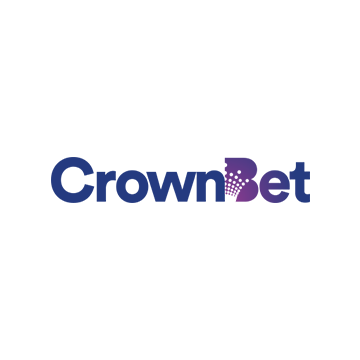
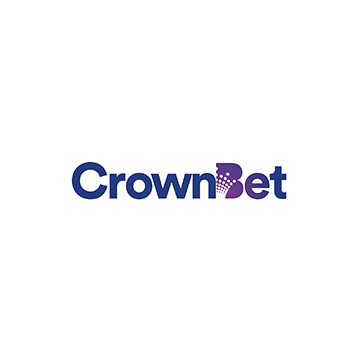
Added new users - #391 #368 #416
Added new users popxo, crownbet, tapinfluence.

Changed region(s): [[0.1222, 0.4278, 0.8556, 0.5806]]

diff --git a/pages/customers/trusted-by/index.html b/pages/customers/trusted-by/index.html
@@ -59,6 +59,7 @@ class: trusted, header-white
             <a href="http://www.conversionlogic.com" class="col pad-5" target="_blank"><img class="adapt img-rounded" src="{{ BASE_PATH }}/assets/img/common/trusted/Snowplow_Website-Images_Users_ConversionLogic.png" width="390" height="150"></a>
             <a href="https://www.bankfacil.com.br" class="col pad-5" target="_blank"><img class="adapt img-rounded" src="{{ BASE_PATH }}/assets/img/common/trusted/Snowplow_Website-Images_Users_Creditas.png" width="390" height="150"></a>
             <a href="https://www.crew.co" class="col pad-5" target="_blank"><img class="adapt img-rounded" src="{{ BASE_PATH }}/assets/img/common/trusted/Snowplow_Website-Images_Users_Crew.png" width="390" height="150"></a>
+            <a href="https://crownbet.com.au" class="col pad-5" target="_blank"><img class="adapt img-rounded" src="{{ BASE_PATH }}/assets/img/common/trusted/Snowplow_Website-Images_Users_Crownbet.png" width="390" height="150"></a>
             <a href="http://theculturetrip.com/" class="col pad-5" target="_blank"><img class="adapt img-rounded" src="{{ BASE_PATH }}/assets/img/common/trusted/Snowplow_Website-Images_Users_Culture.png" width="390" height="150"></a>
             <a href="http://www.custommade.com" class="col pad-5" target="_blank"><img class="adapt img-rounded" src="{{ BASE_PATH }}/assets/img/common/trusted/Snowplow_Website-Images_Users_CustomMade.png" width="390" height="150"></a>
             <a href="http://www.cvent.com/" class="col pad-5" target="_blank"><img class="adapt img-rounded" src="{{ BASE_PATH }}/assets/img/common/trusted/Snowplow_Website-Images_Users_Cvent.png" width="390" height="150"></a>
@@ -133,6 +134,7 @@ class: trusted, header-white
             <a href="https://perengo.com/" class="col pad-5" target="_blank"><img class="adapt img-rounded" src="{{ BASE_PATH }}/assets/img/common/trusted/Snowplow_Website-Images_Users_Perenco.png" width="390" height="150"></a>
             <a href="https://www.picnic.nl" class="col pad-5" target="_blank"><img class="adapt img-rounded" src="{{ BASE_PATH }}/assets/img/common/trusted/Snowplow_Website-Images_Users_Picnic.png" width="390" height="150"></a>
             <a href="http://www.popsugar.com" class="col pad-5" target="_blank"><img class="adapt img-rounded" src="{{ BASE_PATH }}/assets/img/common/trusted/Snowplow_Website-Images_Users_Popsugar.png" width="390" height="150"></a>
+            <a href="http://www.popxo.com" class="col pad-5" target="_blank"><img class="adapt img-rounded" src="{{ BASE_PATH }}/assets/img/common/trusted/Snowplow_Website-Images_Users_Popxo.png" width="390" height="150"></a>
             <a href="http://www.qwaya.com" class="col pad-5" target="_blank"><img class="adapt img-rounded" src="{{ BASE_PATH }}/assets/img/common/trusted/Snowplow_Website-Images_Users_Qwaya.png" width="390" height="150"></a>
             <a href="https://www.raisin.com/" class="col pad-5" target="_blank"><img class="adapt img-rounded" src="{{ BASE_PATH }}/assets/img/common/trusted/Snowplow_Website-Images_Users_Raisin.png" width="390" height="150"></a>
             <a href="https://rootsrated.com/" class="col pad-5" target="_blank"><img class="adapt img-rounded" src="{{ BASE_PATH }}/assets/img/common/trusted/Snowplow_Website-Images_Users_RootsRated.png" width="390" height="150"></a>
@@ -158,6 +160,10 @@ class: trusted, header-white
             <a href="http://www.studentbeans.com" class="col pad-5" target="_blank"><img class="adapt img-rounded" src="{{ BASE_PATH }}/assets/img/common/trusted/Snowplow_Website-Images_Users_StudentBeans.png" width="390" height="150"></a>
             <a href="http://www.stylight.com" class="col pad-5" target="_blank"><img class="adapt img-rounded" src="{{ BASE_PATH }}/assets/img/common/trusted/Snowplow_Website-Images_Users_Stylight.png" width="390" height="150"></a>
             <a href="https://www.swingbyswing.com" class="col pad-5" target="_blank"><img class="adapt img-rounded" src="{{ BASE_PATH }}/assets/img/common/trusted/Snowplow_Website-Images_Users_Swing.png" width="390" height="150"></a>
+
+            <a href="https://www.tapinfluence.com" class="col pad-5" target="_blank"><img class="adapt img-rounded" src="{{ BASE_PATH }}/assets/img/common/trusted/Snowplow_Website-Images_Users_Tapinfluence.png" width="390" height="150"></a>
+
+
             <a href="https://www.economist.com/" class="col pad-5" target="_blank"><img class="adapt img-rounded" src="{{ BASE_PATH }}/assets/img/common/trusted/Snowplow_Website-Images_Users_TheEconomist.png" width="390" height="150"></a>
             <a href="https://soulmates.theguardian.com/" class="col pad-5" target="_blank"><img class="adapt img-rounded" src="{{ BASE_PATH }}/assets/img/common/trusted/Snowplow_Website-Images_Users_TheGuardian.png" width="390" height="150"></a>
             <a href="https://www.therealreal.com" class="col pad-5" target="_blank"><img class="adapt img-rounded" src="{{ BASE_PATH }}/assets/img/common/trusted/Snowplow_Website-Images_Users_TheRealReal.png" width="390" height="150"></a>
